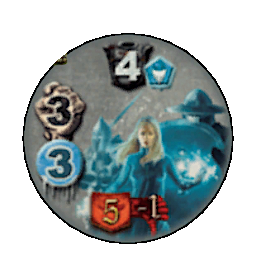
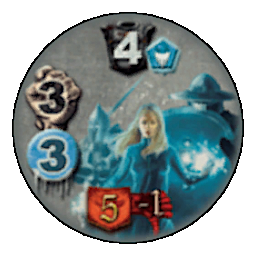
Fixed zoom on map token, fixed grey guardians and blue heroes tokens being too small, added walls unique data to map tiles

diff --git a/MapTokenControl.cs b/MapTokenControl.cs
@@ -3,6 +3,7 @@ using System;
 
 public partial class MapTokenControl : Control
 {
+	private bool hover;
 	// Called when the node enters the scene tree for the first time.
 	public override void _Ready()
 	{
@@ -12,17 +13,25 @@ public partial class MapTokenControl : Control
 	public override void _Process(double delta)
 	{
 	}
-
-	private void OnMouseEntered() {
-		if (Input.IsActionPressed("shift"))
+	// Zoom if shift pressed and hovering token
+	public override void _Input(InputEvent @event)
+	{
+		if (Input.IsActionPressed("shift") && hover == true)
 		{
 			GetNode<Sprite2D>("Sprite2D").Scale = new Vector2((float)1,(float)1);
 			GetNode<Sprite2D>("Sprite2D").ZIndex = 1;
 		}
+		else if (GetNode<Sprite2D>("Sprite2D").ZIndex == 1)
+		{
+			GetNode<Node2D>("Sprite2D").Scale = new Vector2((float)0.25,(float)0.25);
+			GetNode<Sprite2D>("Sprite2D").ZIndex = 0;
+		}
+	}
+	private void OnMouseEntered() {
+		hover = true;
 	}
 
 	private void OnMouseExited() {
-		GetNode<Node2D>("Sprite2D").Scale = new Vector2((float)0.25,(float)0.25);
-		GetNode<Sprite2D>("Sprite2D").ZIndex = 0;
+		hover = false;
 	}
 }

diff --git a/Player/Player.cs b/Player/Player.cs
@@ -7,7 +7,7 @@ public partial class Player : Node2D
 	const int MainLayer = 0;
 	const int MainTerrainSet = 0;
 	Vector2I playerPos = new Vector2I(0, 0);
-	private int movePoints = 40;
+	private int movePoints = 100;
 
 	public int MovePoints { get => movePoints; set => movePoints = value; }
 
@@ -21,8 +21,9 @@ public partial class Player : Node2D
 	{
 		var mapGen = GetNode<MapGen>("../MapGen");
 		// Called on Input Event. For now, should only process mouse event Leftclick
-		if (Input.IsActionPressed("leftClick"))
+		if (@event.IsActionPressed("leftClick"))
 		{
+			//GD.Print("CLICK");
 			// Converting global pixel coordinates to coordinates on the MapGen node then converting to the Hex coordinates of MapGen
 			var globalClicked = GetGlobalMousePosition();
 			var posClicked = mapGen.LocalToMap(mapGen.ToLocal(globalClicked));
